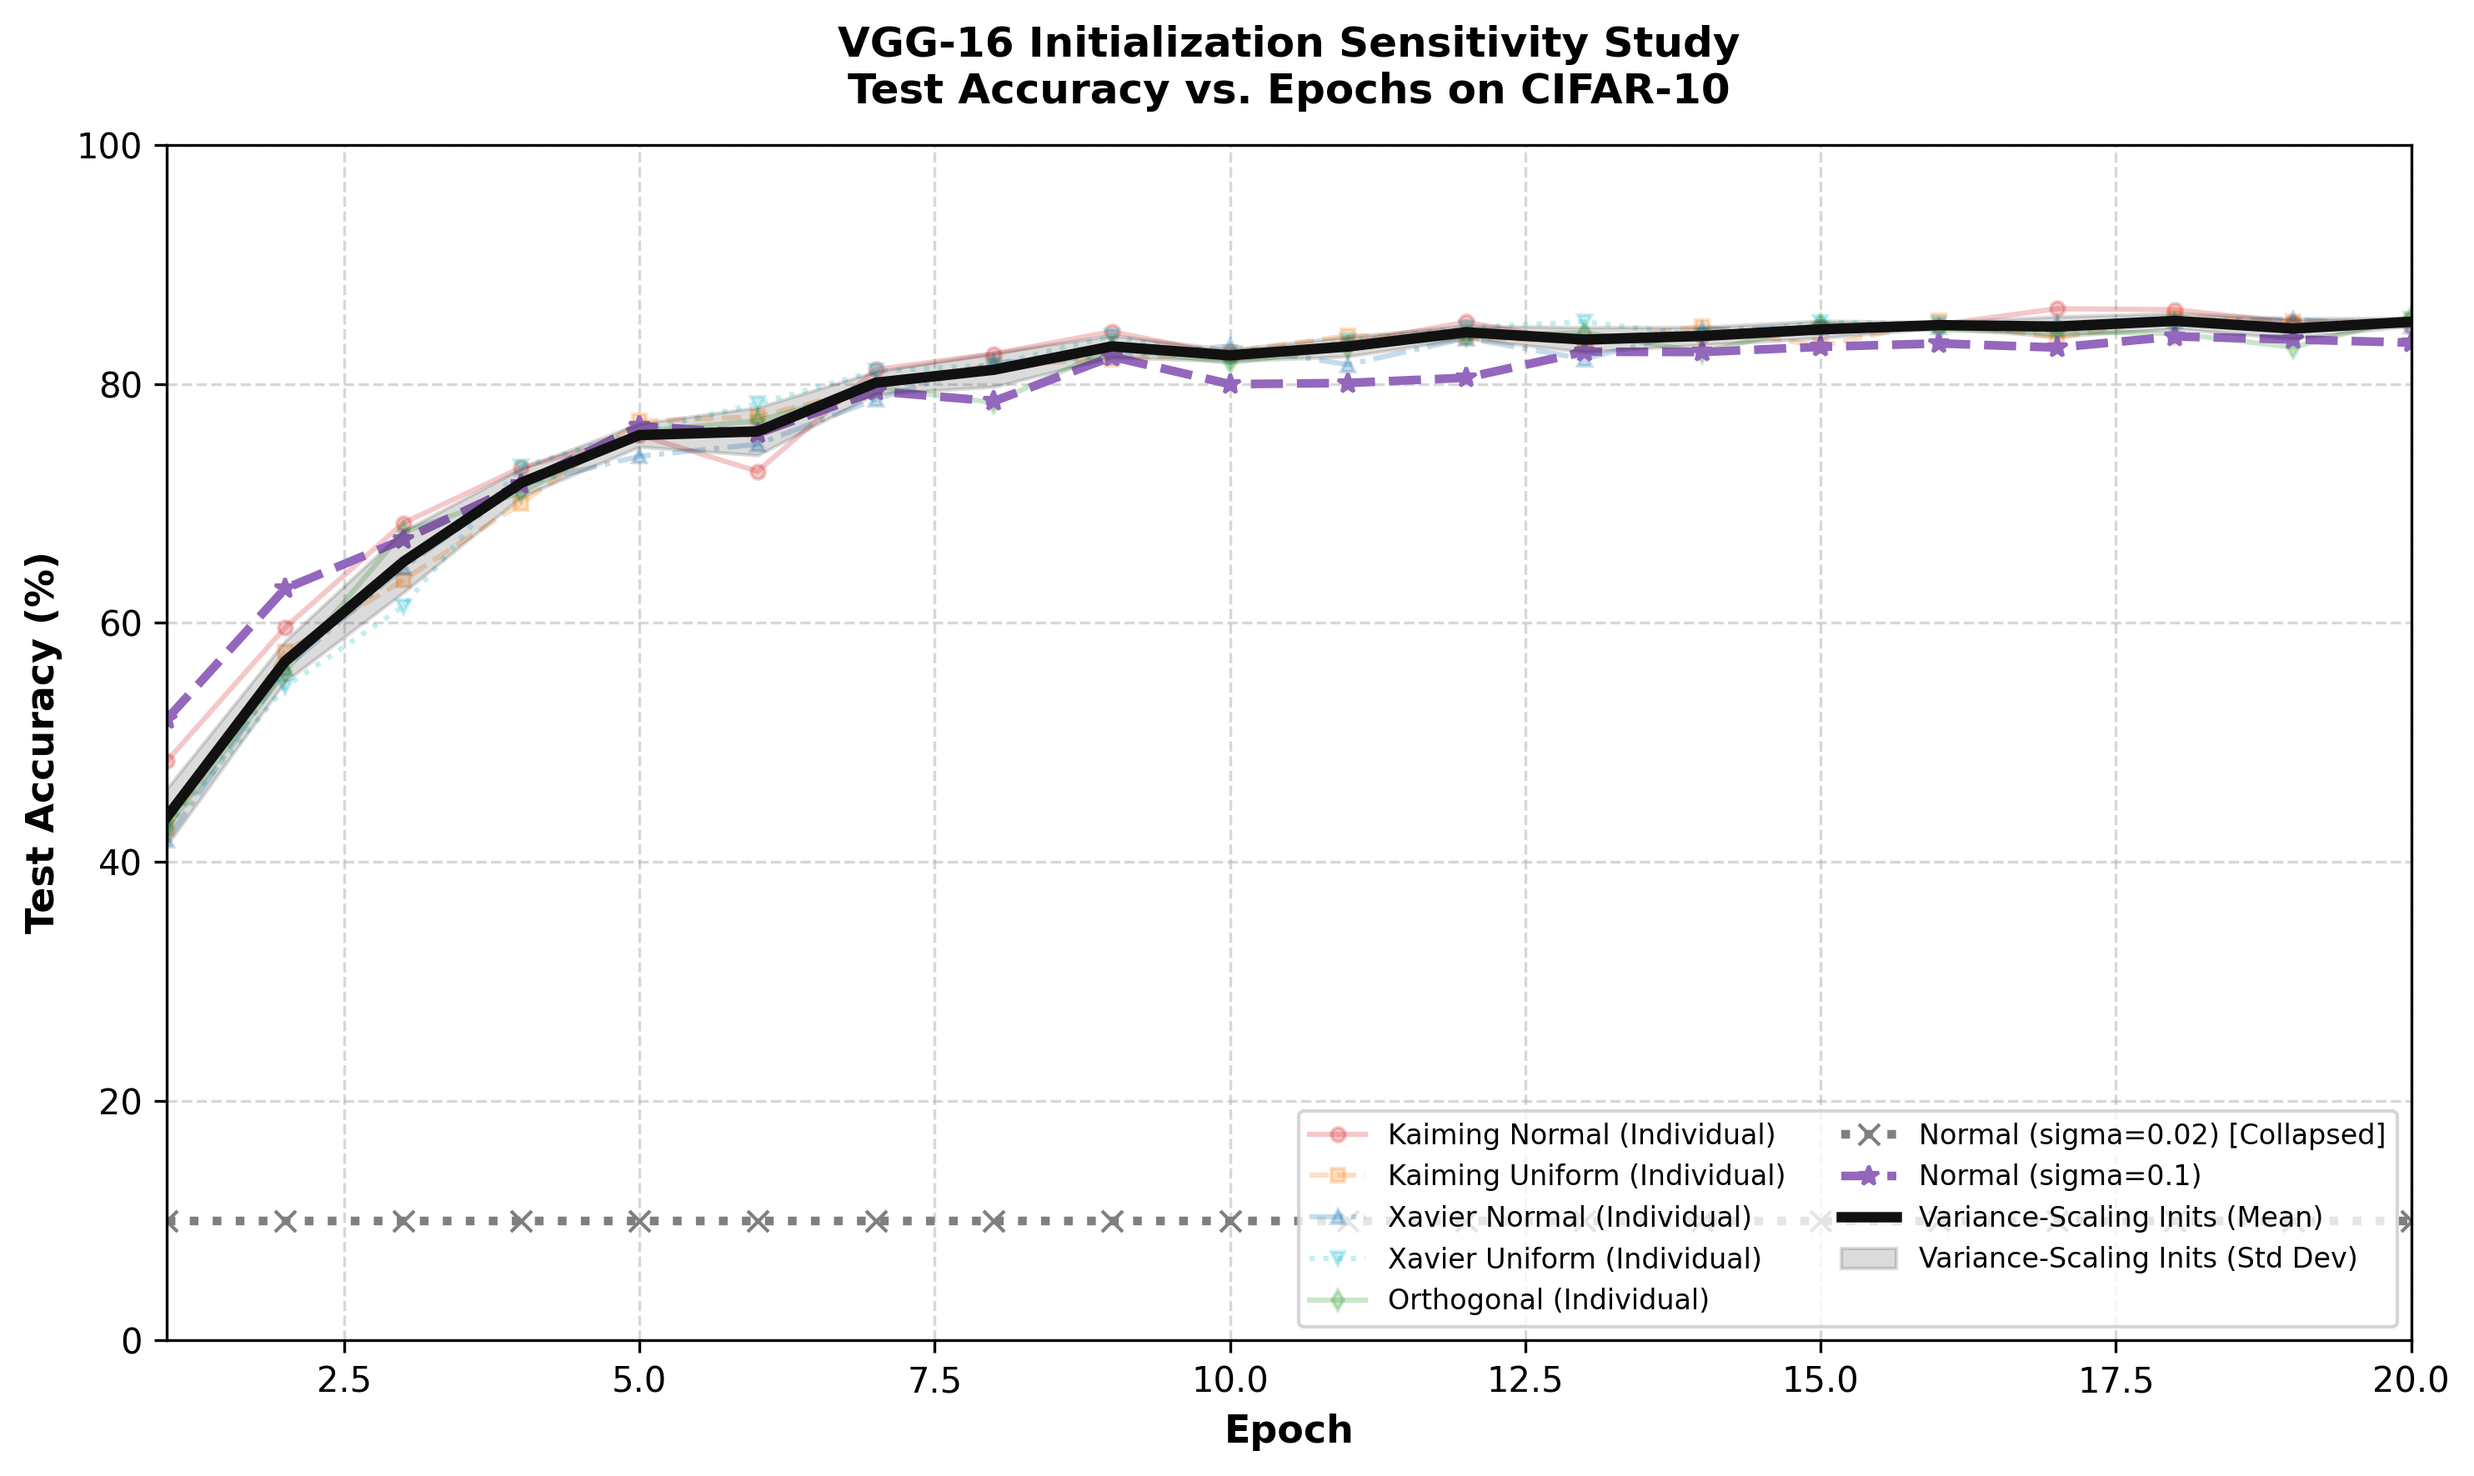
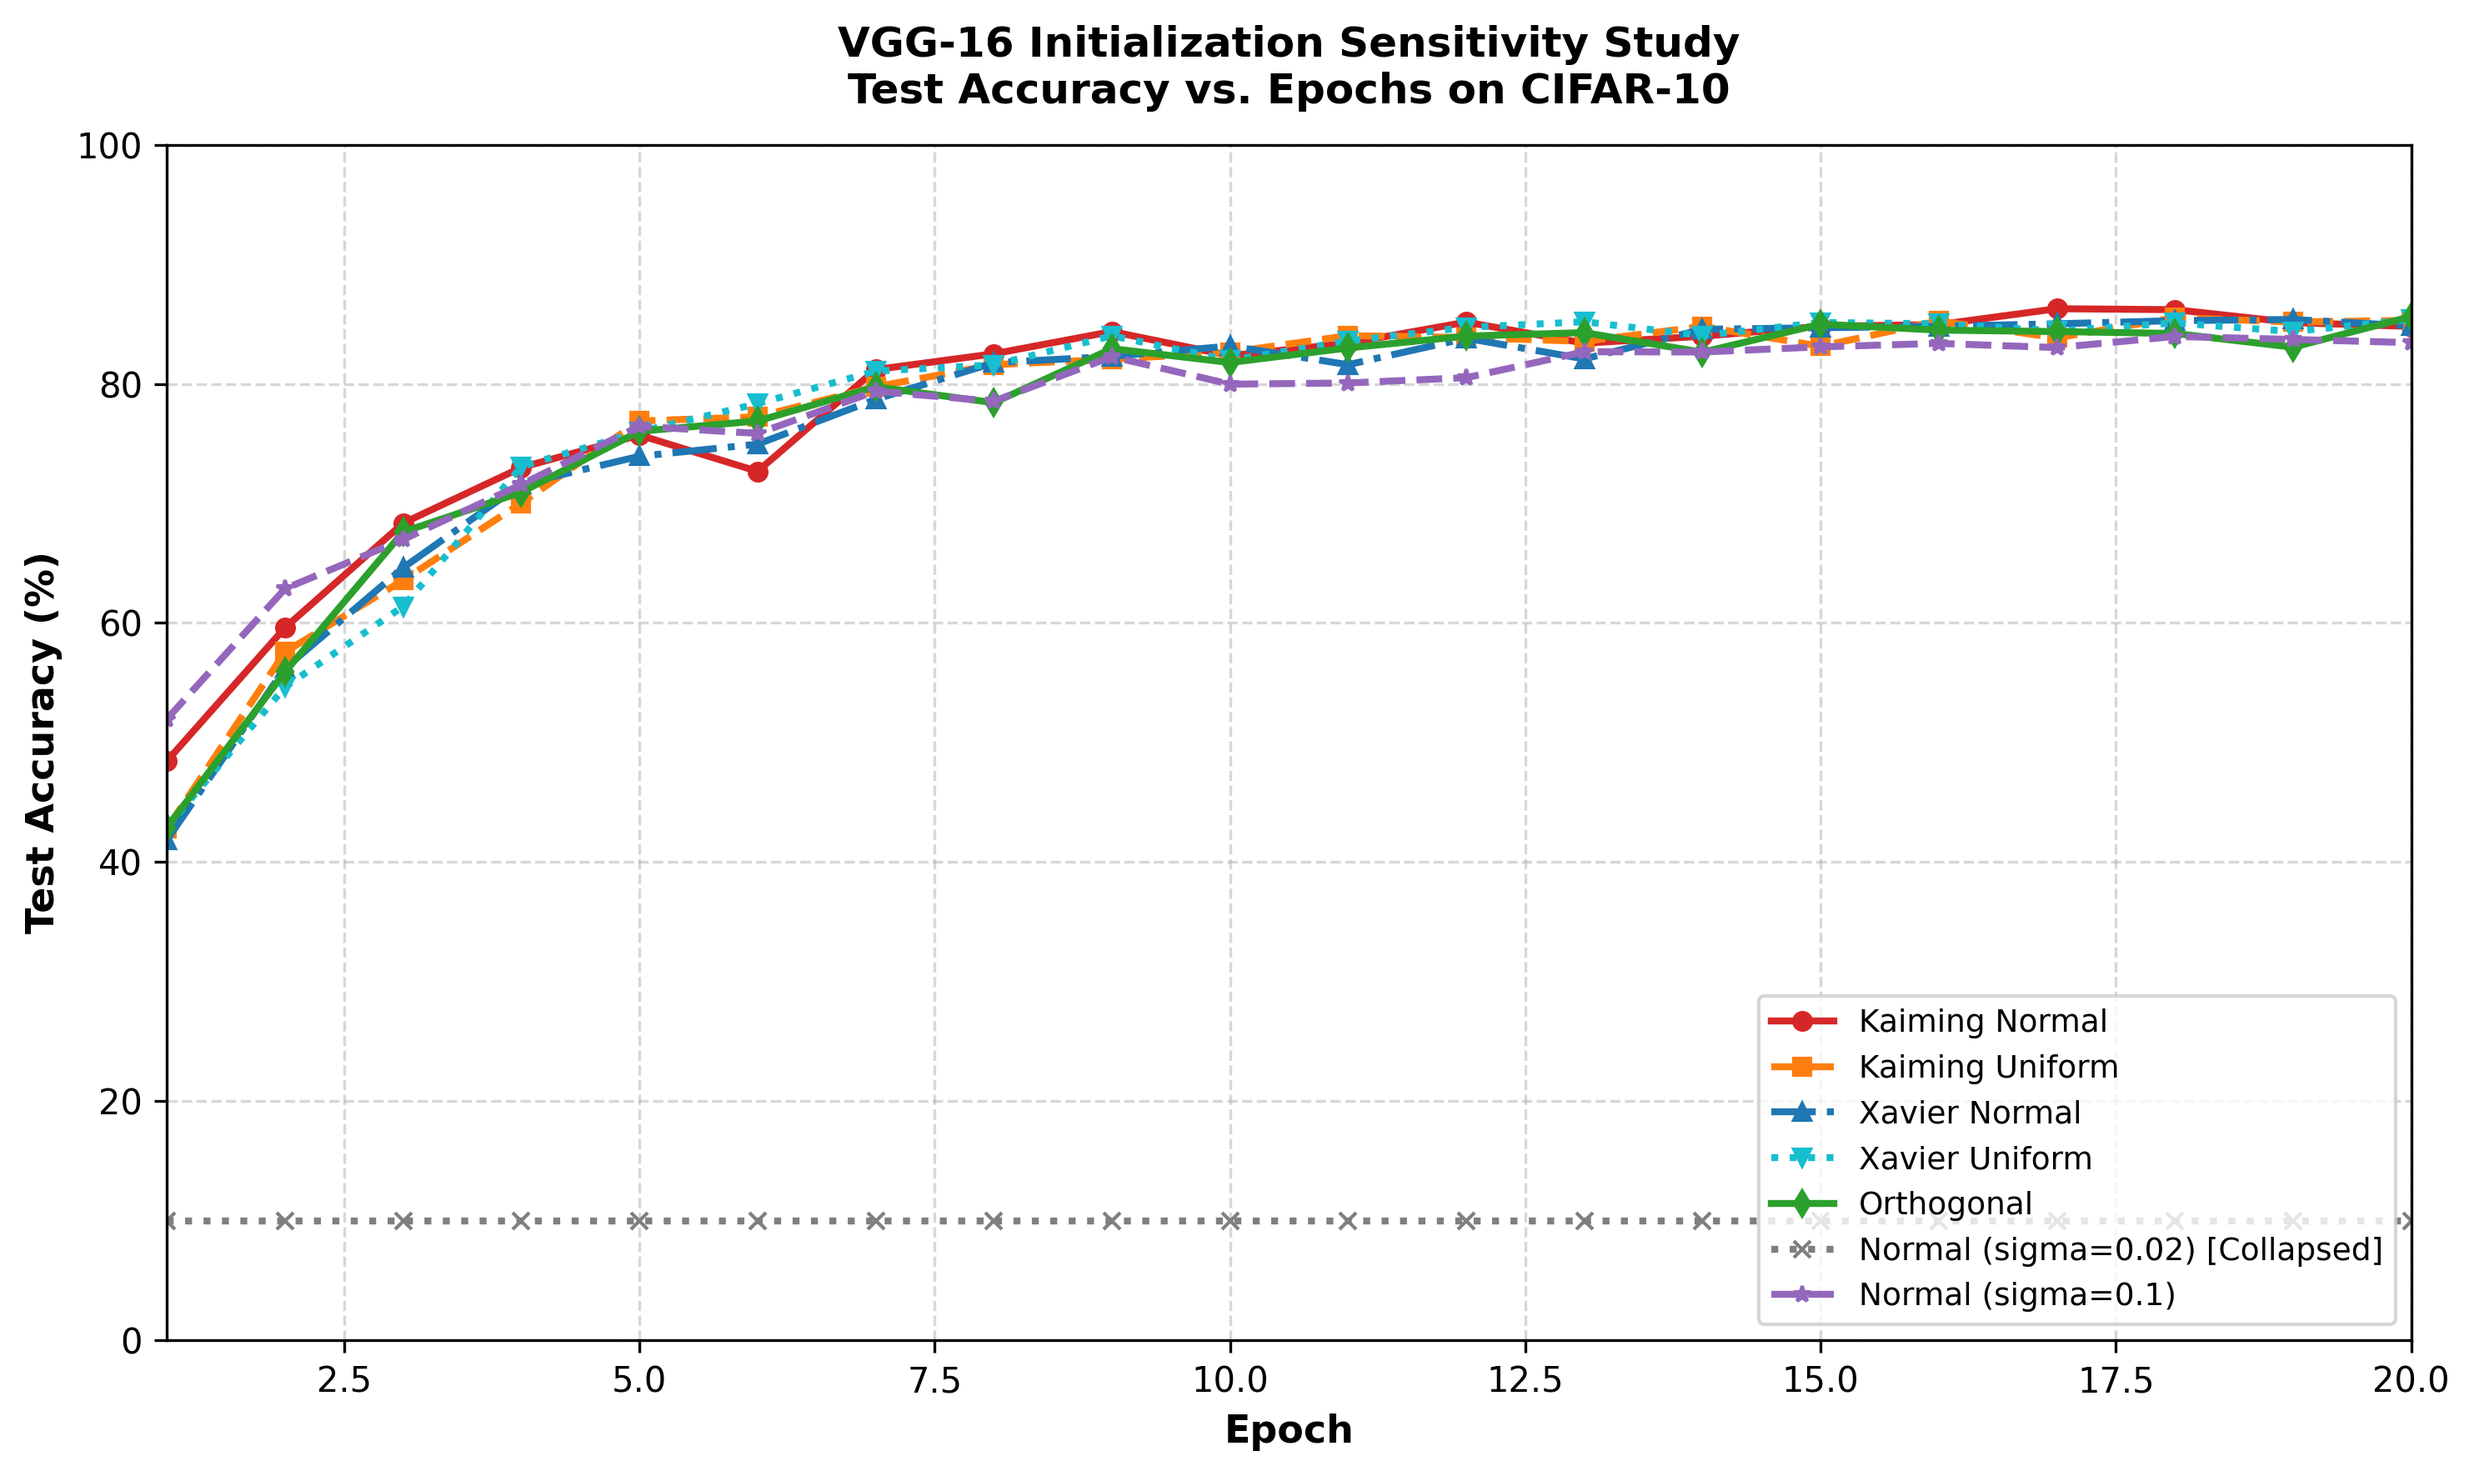
revert: restore original weight initialization sensitivity plots with distinct individual lines

diff --git a/scripts/plotting/plot_vgg16_init_layer_metrics.py b/scripts/plotting/plot_vgg16_init_layer_metrics.py
@@ -22,9 +22,6 @@ styles = {
     'Normal (sigma=0.1)': {'color': '#9467bd', 'marker': 'x', 'linestyle': '--'}
 }
 
-# Standard variance-scaling methods to group together
-var_scaling_methods = ['Kaiming Normal', 'Kaiming Uniform', 'Xavier Normal', 'Xavier Uniform', 'Orthogonal']
-
 # Custom sorting order key function for VGG-16 layers
 def get_vgg_layer_order(name):
     if name.startswith('features.'):
@@ -84,68 +81,22 @@ for ax in [ax1, ax2]:
 ax1.set_title('Layer-wise Capacity Distribution\nActive Weights to Total Weights Ratio (VGG-16 Initialization Sensitivity Sweep)', fontsize=12, fontweight='bold')
 ax1.set_ylabel('Active Weights Ratio', fontsize=11)
 
+for method, data in layer_data.items():
+    ax1.plot(data['layers'], data['weights_ratio'], 
+             color=styles[method]['color'], marker=styles[method]['marker'], 
+             linestyle=styles[method]['linestyle'], label=method, linewidth=2, markersize=7)
+
+ax1.legend(loc='upper right', frameon=True)
+
 # Plot 2: Active Neurons Ratio
 ax2.set_title('Layer-wise Neuron Retention\nActive Neurons to Total Neurons Ratio (VGG-16 Initialization Sensitivity Sweep)', fontsize=12, fontweight='bold')
 ax2.set_ylabel('Active Neurons Ratio', fontsize=11)
 ax2.set_xlabel('Network Layer Name', fontsize=11)
 
-# Plot individual lines
-layers_list = None
-var_scaling_w_ratios = []
-var_scaling_n_ratios = []
-
 for method, data in layer_data.items():
-    layers_list = data['layers']
-    
-    if method in var_scaling_methods:
-        var_scaling_w_ratios.append(data['weights_ratio'])
-        var_scaling_n_ratios.append(data['neurons_ratio'])
-        
-        # Plot individual variance scaling layers with high transparency
-        ax1.plot(data['layers'], data['weights_ratio'], 
-                 color=styles[method]['color'], marker=styles[method]['marker'], 
-                 linestyle=styles[method]['linestyle'], alpha=0.25, linewidth=1.5, markersize=5,
-                 label=f"{method} (Individual)")
-        ax2.plot(data['layers'], data['neurons_ratio'], 
-                 color=styles[method]['color'], marker=styles[method]['marker'], 
-                 linestyle=styles[method]['linestyle'], alpha=0.25, linewidth=1.5, markersize=5,
-                 label=f"{method} (Individual)")
-    else:
-        # Plot out-of-scale layers fully opaque
-        ax1.plot(data['layers'], data['weights_ratio'], 
-                 color=styles[method]['color'], marker=styles[method]['marker'], 
-                 linestyle=styles[method]['linestyle'], linewidth=2.5, markersize=7,
-                 label=method, alpha=1.0)
-        ax2.plot(data['layers'], data['neurons_ratio'], 
-                 color=styles[method]['color'], marker=styles[method]['marker'], 
-                 linestyle=styles[method]['linestyle'], linewidth=2.5, markersize=7,
-                 label=method, alpha=1.0)
-
-# Compute and plot mean & std dev shading for Variance-Scaling initializations
-if var_scaling_w_ratios:
-    var_scaling_w_ratios = np.array(var_scaling_w_ratios)
-    var_scaling_n_ratios = np.array(var_scaling_n_ratios)
-    
-    mean_w = np.mean(var_scaling_w_ratios, axis=0)
-    std_w = np.std(var_scaling_w_ratios, axis=0)
-    
-    mean_n = np.mean(var_scaling_n_ratios, axis=0)
-    std_n = np.std(var_scaling_n_ratios, axis=0)
-    
-    # Plot Means
-    ax1.plot(layers_list, mean_w, color='#111111', linestyle='-', linewidth=3.0, 
-             label='Variance-Scaling Inits (Mean)', zorder=5)
-    ax2.plot(layers_list, mean_n, color='#111111', linestyle='-', linewidth=3.0, 
-             label='Variance-Scaling Inits (Mean)', zorder=5)
-             
-    # Plot Shaded Std Devs
-    x_indices = np.arange(len(layers_list))
-    ax1.fill_between(layers_list, mean_w - std_w, mean_w + std_w, 
-                     color='#111111', alpha=0.15, label='Variance-Scaling Inits (Std Dev)', zorder=4)
-    ax2.fill_between(layers_list, mean_n - std_n, mean_n + std_n, 
-                     color='#111111', alpha=0.15, label='Variance-Scaling Inits (Std Dev)', zorder=4)
-
-ax1.legend(loc='upper right', frameon=True, fontsize=8, ncol=2)
+    ax2.plot(data['layers'], data['neurons_ratio'], 
+             color=styles[method]['color'], marker=styles[method]['marker'], 
+             linestyle=styles[method]['linestyle'], label=method, linewidth=2, markersize=7)
 
 # Format X-axis tick labels
 plt.xticks(rotation=45, ha='right', fontsize=9)

diff --git a/scripts/plotting/plot_resnet18_init_layer_metrics.py b/scripts/plotting/plot_resnet18_init_layer_metrics.py
@@ -24,9 +24,6 @@ styles = {
     'Normal (sigma=0.1)': {'color': '#9467bd', 'marker': 'x', 'linestyle': '--'}
 }
 
-# Standard variance-scaling methods to group together
-var_scaling_methods = ['Kaiming Normal', 'Kaiming Uniform', 'Xavier Normal', 'Xavier Uniform', 'Orthogonal']
-
 # Custom sorting order key function for ResNet-18 layers
 def get_layer_order(name):
     if name == 'conv1':
@@ -93,67 +90,22 @@ for ax in [ax1, ax2]:
 ax1.set_title('Layer-wise Capacity Distribution\nActive Weights to Total Weights Ratio (ResNet-18 Initialization Sensitivity Sweep)', fontsize=12, fontweight='bold')
 ax1.set_ylabel('Active Weights Ratio', fontsize=11)
 
+for method, data in layer_data.items():
+    ax1.plot(data['layers'], data['weights_ratio'], 
+             color=styles[method]['color'], marker=styles[method]['marker'], 
+             linestyle=styles[method]['linestyle'], label=method, linewidth=2, markersize=7)
+
+ax1.legend(loc='upper right', frameon=True)
+
 # Plot 2: Active Neurons Ratio
 ax2.set_title('Layer-wise Neuron Retention\nActive Neurons to Total Neurons Ratio (ResNet-18 Initialization Sensitivity Sweep)', fontsize=12, fontweight='bold')
 ax2.set_ylabel('Active Neurons Ratio', fontsize=11)
 ax2.set_xlabel('Network Layer Name', fontsize=11)
 
-# Plot individual lines
-layers_list = None
-var_scaling_w_ratios = []
-var_scaling_n_ratios = []
-
 for method, data in layer_data.items():
-    layers_list = data['layers']
-    
-    if method in var_scaling_methods:
-        var_scaling_w_ratios.append(data['weights_ratio'])
-        var_scaling_n_ratios.append(data['neurons_ratio'])
-        
-        # Plot individual variance scaling layers with high transparency
-        ax1.plot(data['layers'], data['weights_ratio'], 
-                 color=styles[method]['color'], marker=styles[method]['marker'], 
-                 linestyle=styles[method]['linestyle'], alpha=0.25, linewidth=1.5, markersize=5,
-                 label=f"{method} (Individual)")
-        ax2.plot(data['layers'], data['neurons_ratio'], 
-                 color=styles[method]['color'], marker=styles[method]['marker'], 
-                 linestyle=styles[method]['linestyle'], alpha=0.25, linewidth=1.5, markersize=5,
-                 label=f"{method} (Individual)")
-    else:
-        # Plot out-of-scale layers fully opaque
-        ax1.plot(data['layers'], data['weights_ratio'], 
-                 color=styles[method]['color'], marker=styles[method]['marker'], 
-                 linestyle=styles[method]['linestyle'], linewidth=2.5, markersize=7,
-                 label=method, alpha=1.0)
-        ax2.plot(data['layers'], data['neurons_ratio'], 
-                 color=styles[method]['color'], marker=styles[method]['marker'], 
-                 linestyle=styles[method]['linestyle'], linewidth=2.5, markersize=7,
-                 label=method, alpha=1.0)
-
-# Compute and plot mean & std dev shading for Variance-Scaling initializations
-if var_scaling_w_ratios:
-    var_scaling_w_ratios = np.array(var_scaling_w_ratios)
-    var_scaling_n_ratios = np.array(var_scaling_n_ratios)
-    
-    mean_w = np.mean(var_scaling_w_ratios, axis=0)
-    std_w = np.std(var_scaling_w_ratios, axis=0)
-    
-    mean_n = np.mean(var_scaling_n_ratios, axis=0)
-    std_n = np.std(var_scaling_n_ratios, axis=0)
-    
-    # Plot Means
-    ax1.plot(layers_list, mean_w, color='#111111', linestyle='-', linewidth=3.0, 
-             label='Variance-Scaling Inits (Mean)', zorder=5)
-    ax2.plot(layers_list, mean_n, color='#111111', linestyle='-', linewidth=3.0, 
-             label='Variance-Scaling Inits (Mean)', zorder=5)
-             
-    # Plot Shaded Std Devs
-    ax1.fill_between(layers_list, mean_w - std_w, mean_w + std_w, 
-                     color='#111111', alpha=0.15, label='Variance-Scaling Inits (Std Dev)', zorder=4)
-    ax2.fill_between(layers_list, mean_n - std_n, mean_n + std_n, 
-                     color='#111111', alpha=0.15, label='Variance-Scaling Inits (Std Dev)', zorder=4)
-
-ax1.legend(loc='upper right', frameon=True, fontsize=8, ncol=2)
+    ax2.plot(data['layers'], data['neurons_ratio'], 
+             color=styles[method]['color'], marker=styles[method]['marker'], 
+             linestyle=styles[method]['linestyle'], label=method, linewidth=2, markersize=7)
 
 # Format X-axis tick labels
 plt.xticks(rotation=45, ha='right', fontsize=9)
